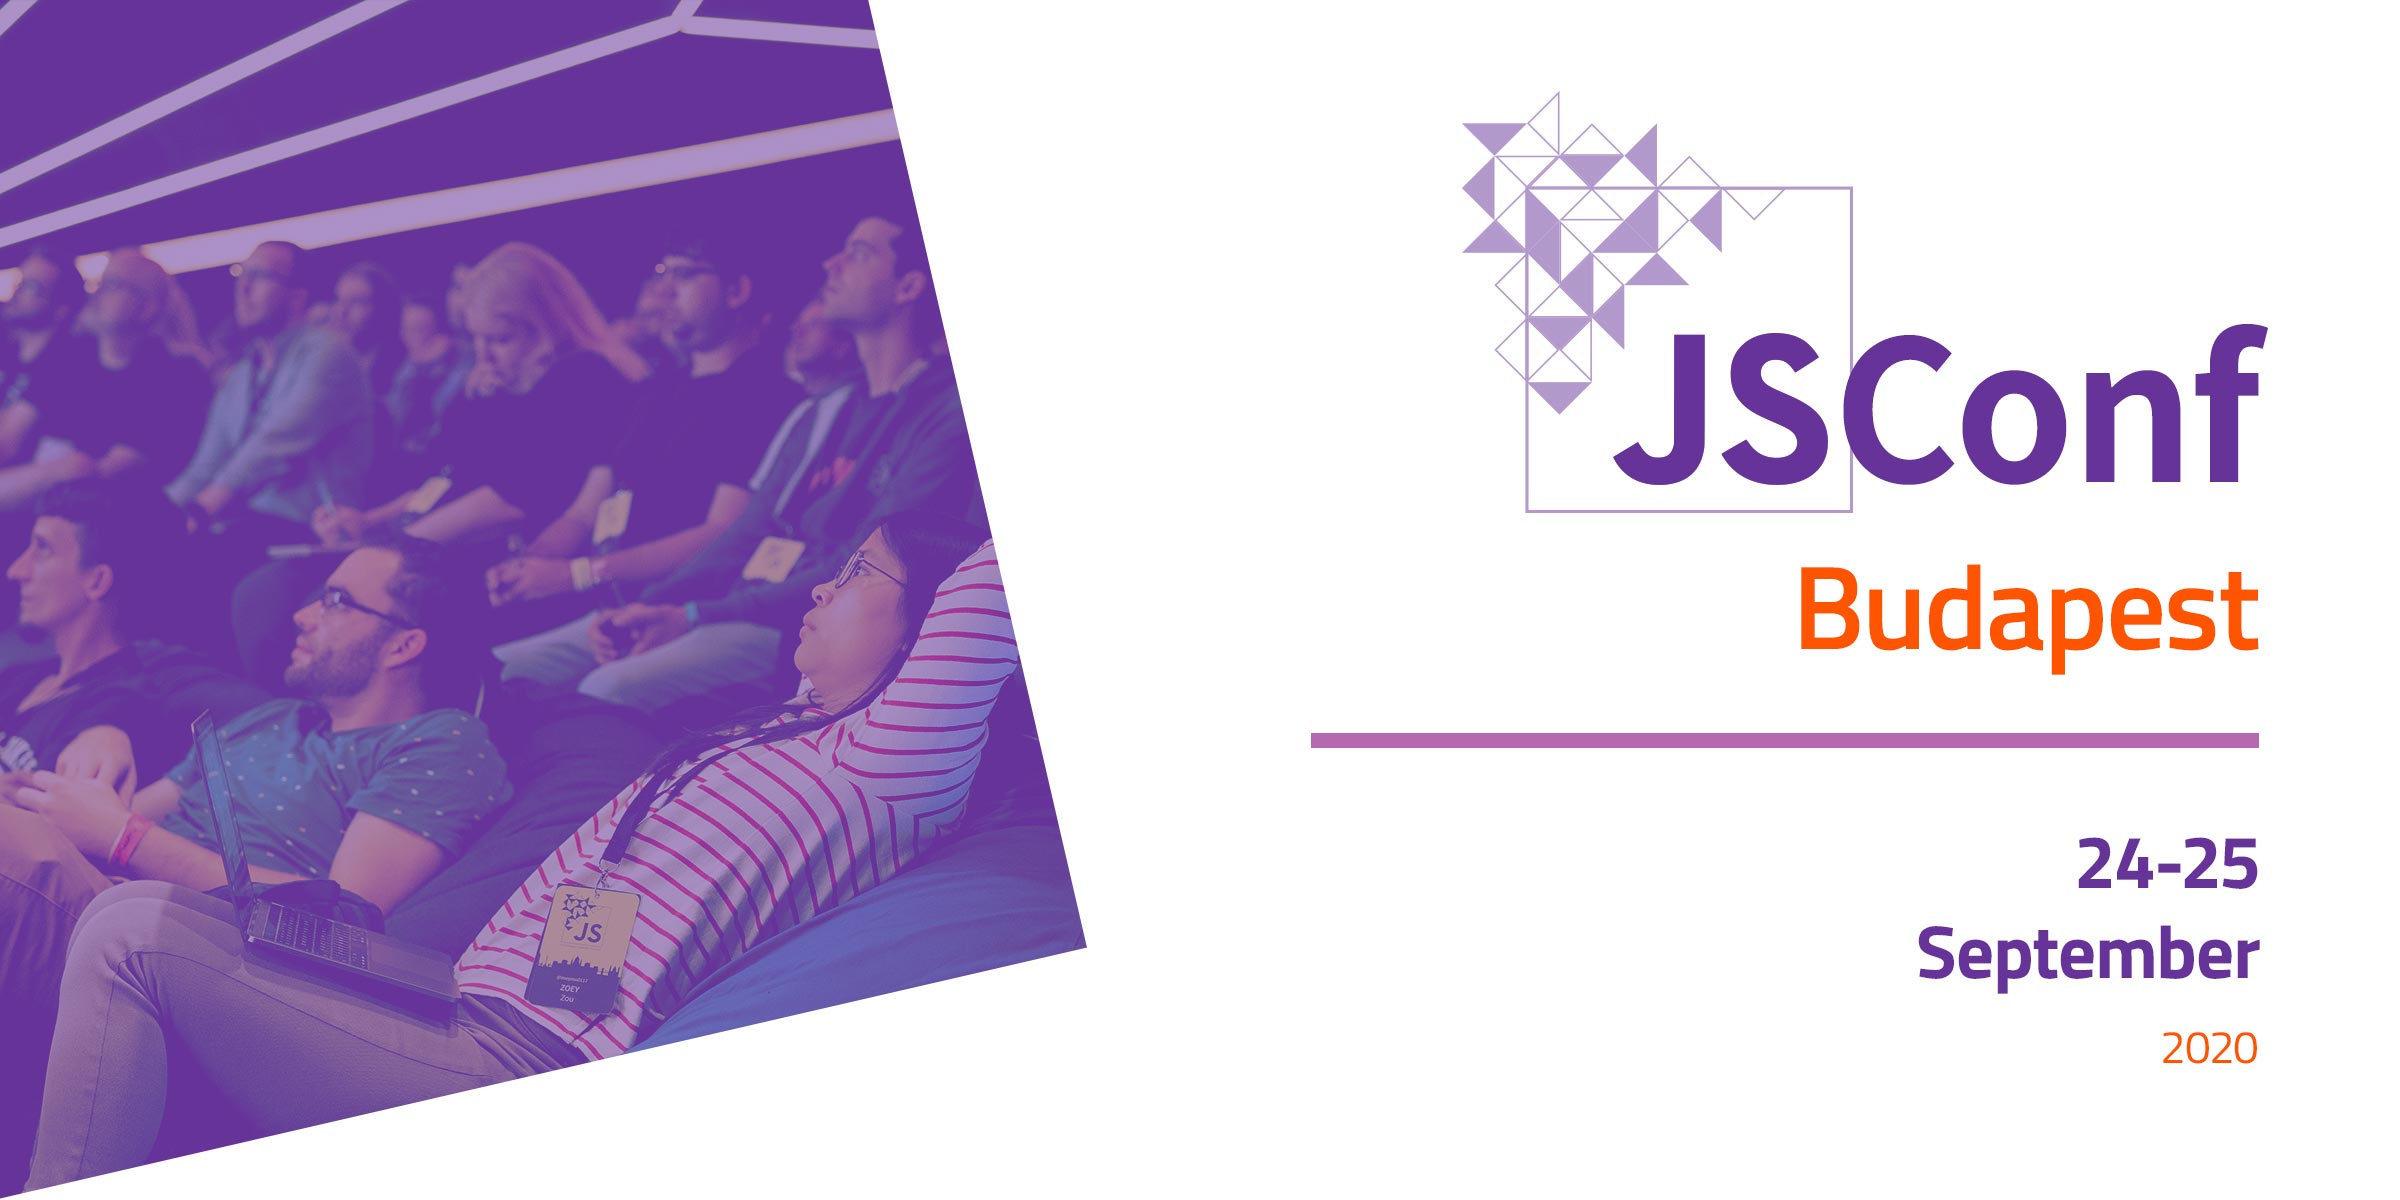
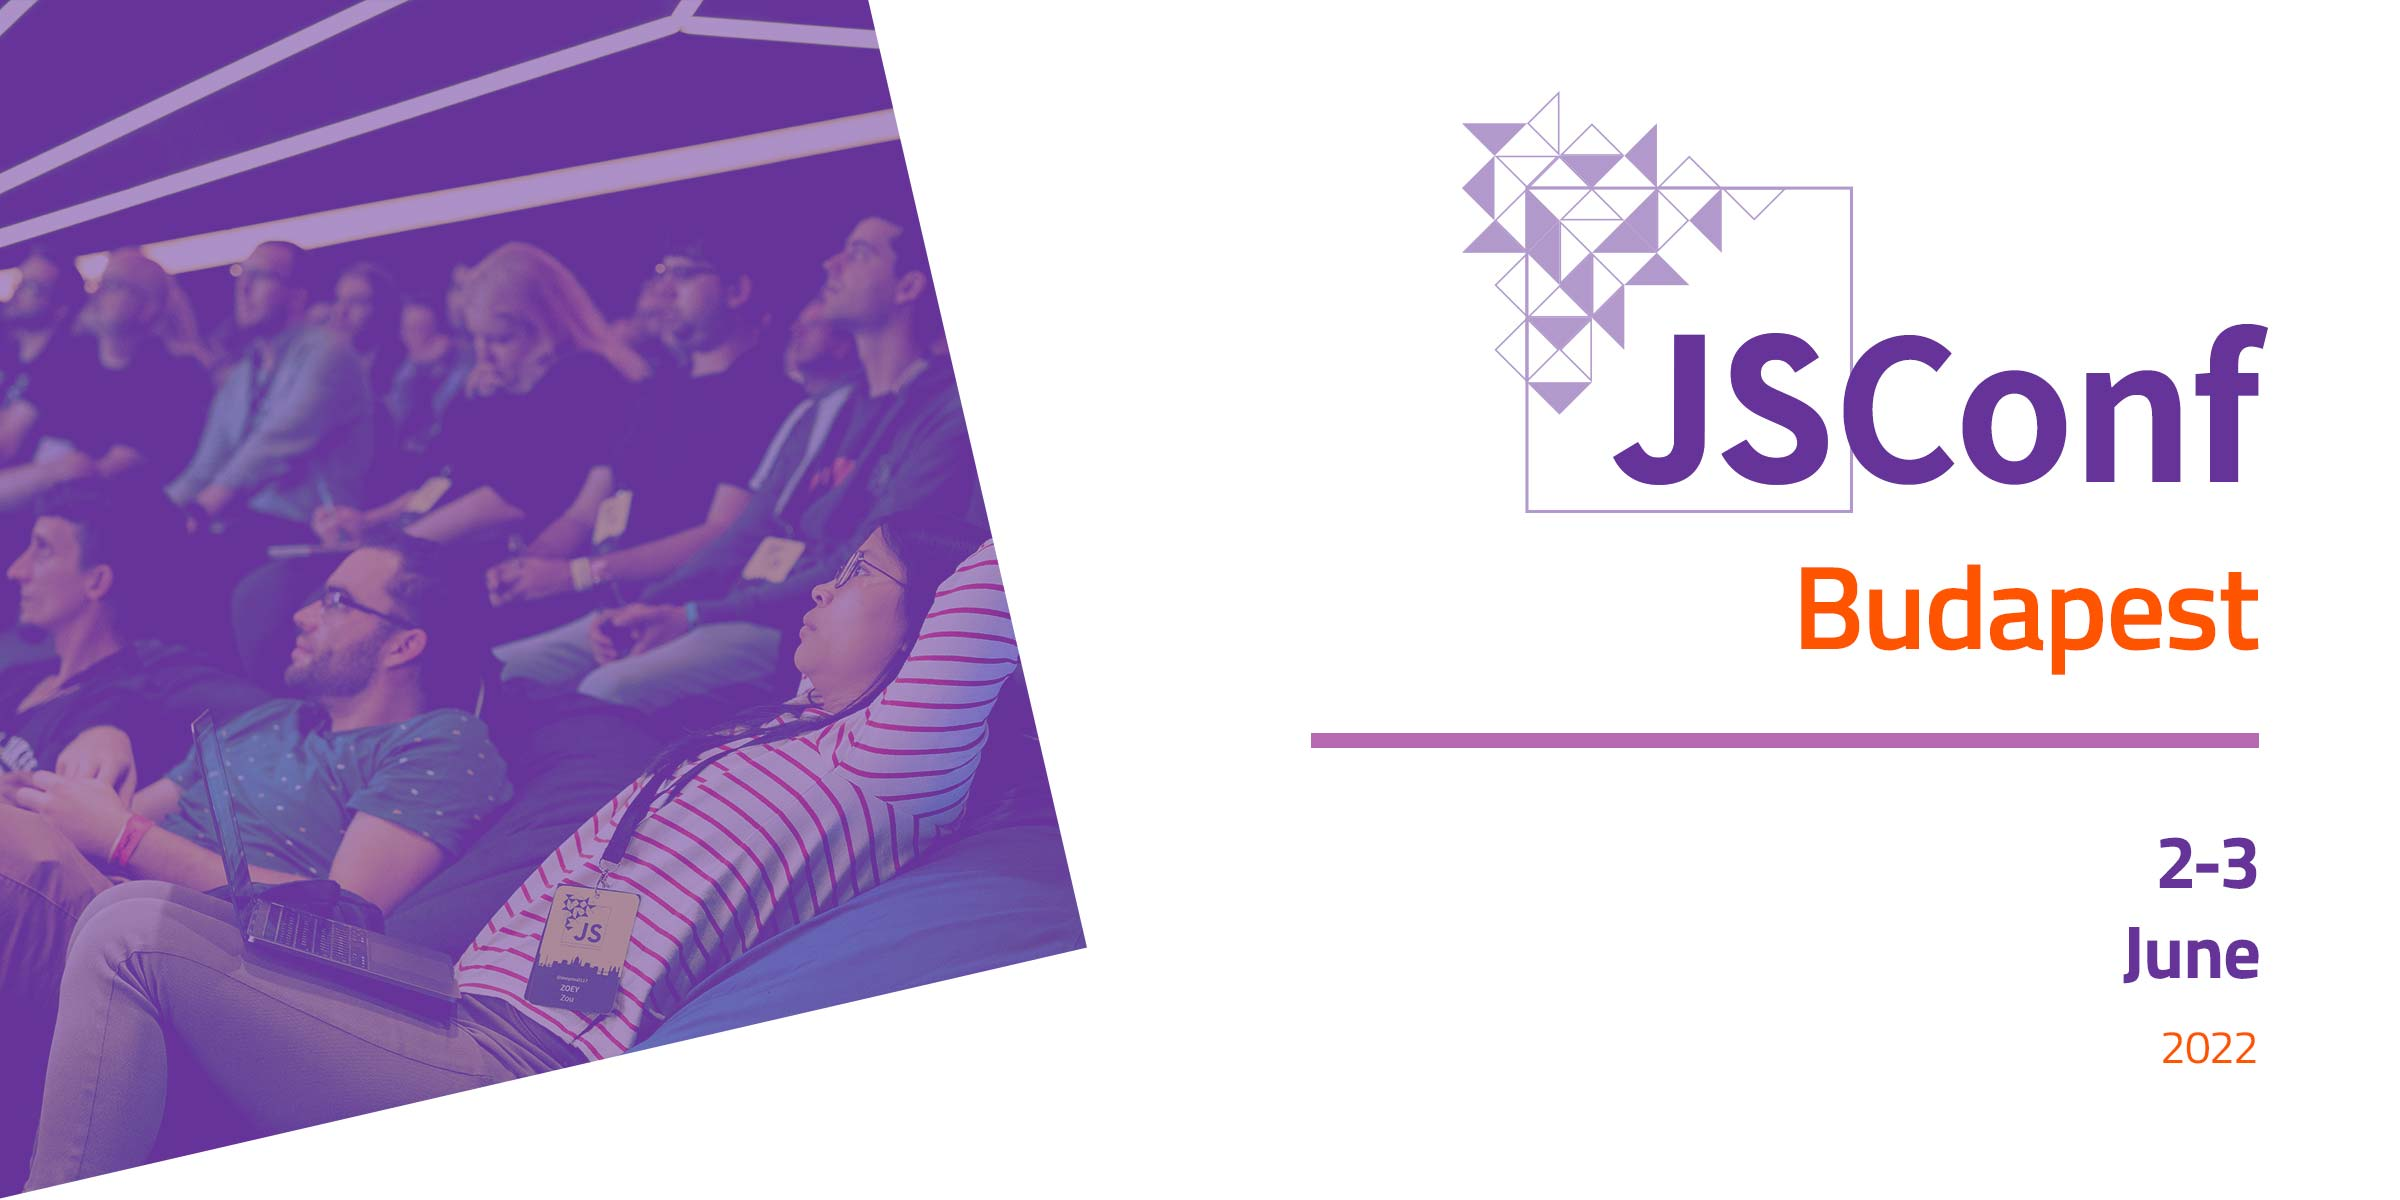
postpone to 2020

Changed region(s): [[0.7812, 0.7708, 0.9375, 0.8325], [0.8438, 0.6783, 0.9375, 0.74]]

diff --git a/src/components/Layout/global.scss b/src/components/Layout/global.scss
@@ -1,0 +1,83 @@
+
+
+@charset 'utf-8';
+@import '../reset.scss';
+@import '../colors.scss';
+@import '../fonts.scss';
+@import '../text.scss';
+@import '../sizes.scss';
+
+:global {
+  .decorated {
+    position: relative;
+
+    &-left::before,
+    &-right::before {
+      position: absolute;
+      content: '';
+      width: 26rem;
+      height: 50vw;
+      bottom: 3rem;
+    }
+
+    &-purple::before {
+      background: $color-purple;
+    }
+    &-orange::before {
+      background: $color-orange;
+    }
+    &-lightpurple::before {
+      background: $color-lightpurple;
+    }
+    &-lightorange::before {
+      background: $color-lightorange;
+    }
+
+    &-right::before {
+      // --offset: calc( calc(calc(100vw - 21rem) / -2));
+      --offset: calc(0);
+      transform: rotate(-13deg) translateY(129%) translateX(var(--offset));
+      right: 0;
+      height: 35vw;
+
+
+      @media screen and (max-width: 2560px) {
+        --offset: calc(37vw);
+        height: 38vw;
+      }
+
+      @media screen and (max-width: 1680px) {
+        --offset: calc(35vw);
+        height: 43vw;
+      }
+
+      @media screen and (max-width: 1160px) {
+        --offset: calc(40vw);
+        height: 43vw;
+      }
+
+      @media screen and (max-width: 960px) {
+        display: none;
+      }
+    }
+
+
+    &-left::before {
+      // --offset: calc( calc(calc(100vw - 21rem) / -2));
+      --offset: calc(-47vw);
+      transform: rotate(-13deg) translateX(var(--offset));
+      left: 0;
+
+      @media screen and (max-width: 1220px) {
+        --offset: calc(-53vw);
+      }
+      @media screen and (max-width: 1080px) {
+        --offset: calc(-56vw);
+      }
+
+      @media screen and (max-width: 960px) {
+        display: none;
+      }
+    }
+  }
+}

diff --git a/src/components/UpdatesList/index.js b/src/components/UpdatesList/index.js
@@ -35,19 +35,6 @@ const UpdatesList = (props) => {
         <h2 id="Updates">Updates</h2>
 
         <ul className={classnames('unstyled', css.list)}>
-          <li key={'1'} className={css.updates_list_item}>
-            <h3>
-              <Link to={`/call-for-speakers-2021`}>Call for Speakers</Link>
-            </h3>
-            <small className={css.date}>2020-12-24</small>
-            <p>
-              We invite everyone in the community to submit their talk to JSConf
-              Budapest 2021. No matter who you are, where you come from, if you
-              had given talks ever before, live or online events. We would LOVE
-              to read your talk ideas!
-            </p>
-            <Link to={`/call-for-speakers-2021`}>Submit a talk right now!</Link>
-          </li>
           {data.allMdx.edges
             .filter(({ node }) => node.parent.sourceInstanceName === 'updates')
             .filter(({ node }) => !node.frontmatter.skip)
@@ -61,7 +48,7 @@ const UpdatesList = (props) => {
 
               return 0
             })
-            .slice(0, 2)
+            .slice(0, 3)
             .map(({ node }) => (
               <li key={node.id} className={css.updates_list_item}>
                 <h3>

diff --git a/src/components/Header/index.js b/src/components/Header/index.js
@@ -66,15 +66,15 @@ const Header = ({ pathName }) => {
           </h1>
 
           <div className={css.date}>
-            23-24 September
-            <span className={css.year}>2021</span>
+            2-3 June
+            <span className={css.year}>2022</span>
           </div>
         </div>
 
         <div className={css.hero}>
           <div className={css.cta}>
             <a
-              href="https://ti.to/jsconf-bp/jsconf-budapest-2021"
+              href="https://ti.to/jsconf-bp/jsconf-budapest-2022"
               className={css.button}
             >
               Buy Tickets
@@ -99,7 +99,7 @@ const Header = ({ pathName }) => {
         <nav className={css.navigation}>
           <ul className={css.menu}>
             <li>
-              <a href="https://ti.to/jsconf-bp/jsconf-budapest-2021">Tickets</a>
+              <a href="https://ti.to/jsconf-bp/jsconf-budapest-2022">Tickets</a>
             </li>
             <li>
               <Link to={'/scholarships'}>Scholarships</Link>

diff --git a/gatsby-config.js b/gatsby-config.js
@@ -2,8 +2,8 @@
 module.exports = {
   siteMetadata: {
     siteUrl: 'https://jsconfbp.com',
-    title: 'JSConf Budapest 2021',
-    description: 'JSConf Budapest 2021, September 23-24, Budapest, Hungary. Tickets from €205, including free workshops, inclusive catering and barista coffee!',
+    title: 'JSConf Budapest 2022',
+    description: 'JSConf Budapest 2022, June 2-3, Budapest, Hungary. Tickets from €205, including free workshops, inclusive catering and barista coffee!',
     keywords: 'jsconf, javascript, jsconfbp, conference, budapest, jsconf budapest, diversity, inclusivity, community',
     twitter: '@jsconfbp'
   },

diff --git a/src/templates/updates.js b/src/templates/updates.js
@@ -10,17 +10,17 @@ import SocialMeta from '../components/SocialMeta/index'
 
 import './updates.scss'
 
-const H2 = ({ children }) => {
-  const [getClassName] = useHeadingDecorator()
-  return <h2 className={getClassName()}>{children}</h2>
-}
-
-const shortcodes = {
-  PostImage,
-  h2: H2,
-}
-
 function UpdatesContentTemplate({ data: { mdx } }) {
+  const [getClassName] = useHeadingDecorator()
+  const H2 = ({ children }) => {
+    return <h2 className={getClassName()}>{children}</h2>
+  }
+
+  const shortcodes = {
+    PostImage,
+    h2: H2,
+  }
+
   return (
     <Layout
       title={mdx.frontmatter.title}

diff --git a/src/components/Sponsorship/NextYear/index.js b/src/components/Sponsorship/NextYear/index.js
@@ -9,14 +9,14 @@ const NextYear = () => (
         <h2 className={css.title}>Coming up next</h2>
 
         <h3>
-          2021 September 23-24
+          2022 June 2-3
           <br />
           Ticket sales started in December, 2019!
         </h3>
 
         <div className={css.conferences}>
           <div className={css.jsconf}>
-            <h5>JSConf Budapest 2021</h5>
+            <h5>JSConf Budapest 2022</h5>
             <ul>
               <li>Single track</li>
               <li>500+ attendees</li>

diff --git a/src/components/Footer/index.js b/src/components/Footer/index.js
@@ -58,7 +58,15 @@ const Footer = ({ className = '' }) => (
             </a>
           </li>
           <li>
-            <a href="https://jsconfbp.com">2021</a>
+            <a href="https://jsconfbp.com/updates/postpone-to-2022">
+              2021{' '}
+              <span role="img" aria-label="Vaccine emoji">
+                💉
+              </span>
+            </a>
+          </li>
+          <li>
+            <a href="https://jsconfbp.com">2022</a>
           </li>
         </ul>
       </nav>

diff --git a/src/components/Sponsorship/Header/index.js b/src/components/Sponsorship/Header/index.js
@@ -8,7 +8,7 @@ const Header = () => (
       <h1 className={css.title}>
         <Link to={'/'}>
           <span className={css.jsconf} />
-          JSConf Budapest 2021
+          JSConf Budapest 2022
           <br />
           Sponsorship
         </Link>

diff --git a/src/components/Venue/index.js b/src/components/Venue/index.js
@@ -38,7 +38,7 @@ const Venue = (props) => {
 
         <p>
           Literally under a pool of water, this great club was our venue in 2016
-          and 2019. We return in 2021!
+          and 2019. We return in 2022!
         </p>
 
         <blockquote>

diff --git a/src/components/Layout/index.js b/src/components/Layout/index.js
@@ -2,7 +2,7 @@ import React from 'react'
 import Meta from '../Meta'
 import Footer from '../Footer/'
 import Header from '../Header/'
-
+import './global.scss'
 import * as css from './layout.module.scss'
 
 const Layout = ({

diff --git a/src/components/SocialMeta/index.js b/src/components/SocialMeta/index.js
@@ -6,7 +6,7 @@ const SocialMeta = ({
   title,
   description,
   href = '',
-  image = 'jsconfbp_2020_default.jpg',
+  image = 'jsconfbp_2022.jpg',
 }) => {
   const query = graphql`
     query SiteSocialMetaQuery {
